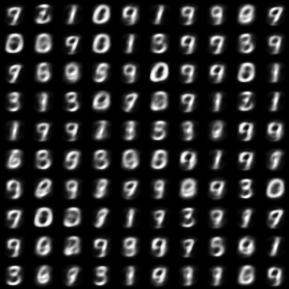
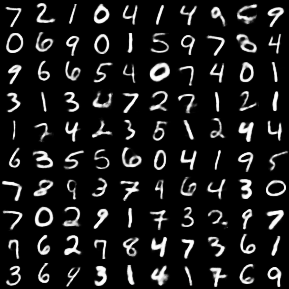
added logging and B11-B15

diff --git a/exp/exp_e.py b/exp/exp_e.py
@@ -1,28 +1,38 @@
-import sys
+#home code directory:
 PROJ_DIR = '/home/ubuntu/AE_experiments'
-if PROJ_DIR not in sys.path:
-    sys.path.append(PROJ_DIR)
-
-import matplotlib
-matplotlib.use('Agg') #for running on AWS without ssh -X
-import os, pdb
-import cPickle as pickle
-import train_AE
-
-
 #home directory for all experiments:
 #DATA_DIR = '/Users/vmisra/data/AE_experiments' #local
 DATA_DIR = '/home/ubuntu/data/AE_experiments' #AWS
+#set stdout to print and to log to a file.
+import sys, os, pdb
+if PROJ_DIR not in sys.path:
+    sys.path.append(PROJ_DIR)
+
+class Logger(object):
+    def __init__(self, filepath=os.path.join(DATA_DIR,'stdout.log')):
+        self.terminal = sys.stdout
+        self.log_file = open(filepath,'w')
+    def write(self, message):
+        self.terminal.write(message)
+        self.log_file.write(message)
+sys.stdout = Logger()
+
+
+
+#######Now the actual experiment code
+import matplotlib
+matplotlib.use('Agg') #for running on AWS without ssh -X
+import cPickle as pickle
+import train_AE
 
 #subdirectories and paths for all experiments:
 MODELS_DIR = os.path.join(DATA_DIR,"models")
 FUEL_DIR = os.path.join(DATA_DIR,"fuel")
 
-
 ##### EXP Z2
-names = ['B10']
-n_unitss = [[784,1000,15]]
-corruptionss = [[.2, .2]]
+names = ['B15']
+n_unitss = [[784,1000,5]]
+corruptionss = [[.2,.2]]
 enc_activationss = [['"sigmoid"']*2]
 dec_activationss = [['"sigmoid"']*2]
 
@@ -36,7 +46,8 @@ for (name,n_units, corruptions, enc_activations, dec_activations) in zip(names,n
     'dir_models': dir_models,
     'dir_fuel'  : FUEL_DIR,
     'paths_YAML_pretrains' : ['layer0_skeleton.yaml',
-                              'layer1_skeleton.yaml'],
+                              'layer1_skeleton.yaml',
+                              'layer2_skeleton.yaml'],
     'path_YAML_finetune' : 'finetune_simpletrain.yaml',
     'train_stop': 50000,
     'valid_stop': 60000,

diff --git a/exp/exp_b.py b/exp/exp_b.py
@@ -1,28 +1,38 @@
-import sys
+#home code directory:
 PROJ_DIR = '/home/ubuntu/AE_experiments'
-if PROJ_DIR not in sys.path:
-    sys.path.append(PROJ_DIR)
-
-import matplotlib
-matplotlib.use('Agg') #for running on AWS without ssh -X
-import os, pdb
-import cPickle as pickle
-import train_AE
-
-
 #home directory for all experiments:
 #DATA_DIR = '/Users/vmisra/data/AE_experiments' #local
 DATA_DIR = '/home/ubuntu/data/AE_experiments' #AWS
+#set stdout to print and to log to a file.
+import sys, os, pdb
+if PROJ_DIR not in sys.path:
+    sys.path.append(PROJ_DIR)
+
+class Logger(object):
+    def __init__(self, filepath=os.path.join(DATA_DIR,'stdout.log')):
+        self.terminal = sys.stdout
+        self.log_file = open(filepath,'w')
+    def write(self, message):
+        self.terminal.write(message)
+        self.log_file.write(message)
+sys.stdout = Logger()
+
+
+
+#######Now the actual experiment code
+import matplotlib
+matplotlib.use('Agg') #for running on AWS without ssh -X
+import cPickle as pickle
+import train_AE
 
 #subdirectories and paths for all experiments:
 MODELS_DIR = os.path.join(DATA_DIR,"models")
 FUEL_DIR = os.path.join(DATA_DIR,"fuel")
 
-
 ##### EXP Z2
-names = ['B7']
-n_unitss = [[784,1000,1000,15]]
-corruptionss = [[.2, .4, .2]]
+names = ['B12']
+n_unitss = [[784,1000,1000,5]]
+corruptionss = [[.2,.4,.2]]
 enc_activationss = [['"sigmoid"']*3]
 dec_activationss = [['"sigmoid"']*3]
 

diff --git a/exp/exp_c.py b/exp/exp_c.py
@@ -1,28 +1,38 @@
-import sys
+#home code directory:
 PROJ_DIR = '/home/ubuntu/AE_experiments'
-if PROJ_DIR not in sys.path:
-    sys.path.append(PROJ_DIR)
-
-import matplotlib
-matplotlib.use('Agg') #for running on AWS without ssh -X
-import os, pdb
-import cPickle as pickle
-import train_AE
-
-
 #home directory for all experiments:
 #DATA_DIR = '/Users/vmisra/data/AE_experiments' #local
 DATA_DIR = '/home/ubuntu/data/AE_experiments' #AWS
+#set stdout to print and to log to a file.
+import sys, os, pdb
+if PROJ_DIR not in sys.path:
+    sys.path.append(PROJ_DIR)
+
+class Logger(object):
+    def __init__(self, filepath=os.path.join(DATA_DIR,'stdout.log')):
+        self.terminal = sys.stdout
+        self.log_file = open(filepath,'w')
+    def write(self, message):
+        self.terminal.write(message)
+        self.log_file.write(message)
+sys.stdout = Logger()
+
+
+
+#######Now the actual experiment code
+import matplotlib
+matplotlib.use('Agg') #for running on AWS without ssh -X
+import cPickle as pickle
+import train_AE
 
 #subdirectories and paths for all experiments:
 MODELS_DIR = os.path.join(DATA_DIR,"models")
 FUEL_DIR = os.path.join(DATA_DIR,"fuel")
 
-
 ##### EXP Z2
-names = ['B8']
-n_unitss = [[784,1000,500,15]]
-corruptionss = [[.3, .2, .1]]
+names = ['B13']
+n_unitss = [[784,1000,500,5]]
+corruptionss = [[.3,.2,.1]]
 enc_activationss = [['"sigmoid"']*3]
 dec_activationss = [['"sigmoid"']*3]
 

diff --git a/exp/exp_d.py b/exp/exp_d.py
@@ -1,28 +1,38 @@
-import sys
+#home code directory:
 PROJ_DIR = '/home/ubuntu/AE_experiments'
-if PROJ_DIR not in sys.path:
-    sys.path.append(PROJ_DIR)
-
-import matplotlib
-matplotlib.use('Agg') #for running on AWS without ssh -X
-import os, pdb
-import cPickle as pickle
-import train_AE
-
-
 #home directory for all experiments:
 #DATA_DIR = '/Users/vmisra/data/AE_experiments' #local
 DATA_DIR = '/home/ubuntu/data/AE_experiments' #AWS
+#set stdout to print and to log to a file.
+import sys, os, pdb
+if PROJ_DIR not in sys.path:
+    sys.path.append(PROJ_DIR)
+
+class Logger(object):
+    def __init__(self, filepath=os.path.join(DATA_DIR,'stdout.log')):
+        self.terminal = sys.stdout
+        self.log_file = open(filepath,'w')
+    def write(self, message):
+        self.terminal.write(message)
+        self.log_file.write(message)
+sys.stdout = Logger()
+
+
+
+#######Now the actual experiment code
+import matplotlib
+matplotlib.use('Agg') #for running on AWS without ssh -X
+import cPickle as pickle
+import train_AE
 
 #subdirectories and paths for all experiments:
 MODELS_DIR = os.path.join(DATA_DIR,"models")
 FUEL_DIR = os.path.join(DATA_DIR,"fuel")
 
-
 ##### EXP Z2
-names = ['B9']
-n_unitss = [[784,1000,200,15]]
-corruptionss = [[.2, .4, .2]]
+names = ['B14']
+n_unitss = [[784,1000,200,5]]
+corruptionss = [[.2,.4,.2]]
 enc_activationss = [['"sigmoid"']*3]
 dec_activationss = [['"sigmoid"']*3]
 

diff --git a/exp/exp.py b/exp/exp.py
@@ -1,27 +1,37 @@
-import sys
+#home code directory:
 PROJ_DIR = '/home/ubuntu/AE_experiments'
-if PROJ_DIR not in sys.path:
-    sys.path.append(PROJ_DIR)
-
-import matplotlib
-matplotlib.use('Agg') #for running on AWS without ssh -X
-import os, pdb
-import cPickle as pickle
-import train_AE
-
-
 #home directory for all experiments:
 #DATA_DIR = '/Users/vmisra/data/AE_experiments' #local
 DATA_DIR = '/home/ubuntu/data/AE_experiments' #AWS
+#set stdout to print and to log to a file.
+import sys, os, pdb
+if PROJ_DIR not in sys.path:
+    sys.path.append(PROJ_DIR)
+
+class Logger(object):
+    def __init__(self, filepath=os.path.join(DATA_DIR,'stdout.log')):
+        self.terminal = sys.stdout
+        self.log_file = open(filepath,'w')
+    def write(self, message):
+        self.terminal.write(message)
+        self.log_file.write(message)
+sys.stdout = Logger()
+
+
+
+#######Now the actual experiment code
+import matplotlib
+matplotlib.use('Agg') #for running on AWS without ssh -X
+import cPickle as pickle
+import train_AE
 
 #subdirectories and paths for all experiments:
 MODELS_DIR = os.path.join(DATA_DIR,"models")
 FUEL_DIR = os.path.join(DATA_DIR,"fuel")
 
-
 ##### EXP Z2
-names = ['B6']
-n_unitss = [[784,1000,500,200,15]]
+names = ['B11']
+n_unitss = [[784,1000,500,200,5]]
 corruptionss = [[.3, .3, .2, .1]]
 enc_activationss = [['"sigmoid"']*4]
 dec_activationss = [['"sigmoid"']*4]
